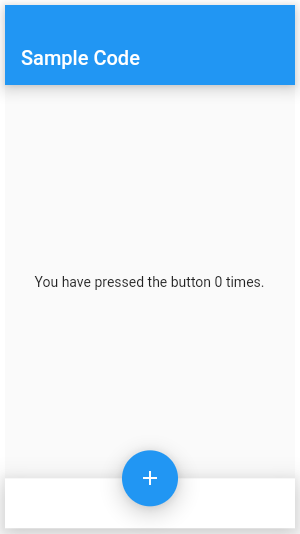
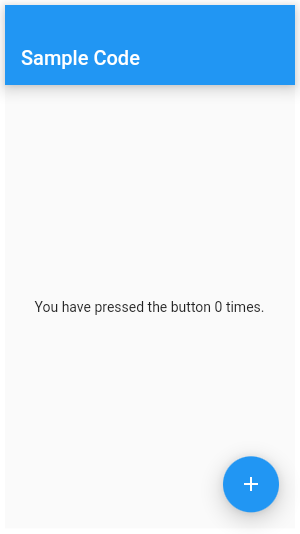
Add more Scaffold diagrams

diff --git a/packages/diagrams/lib/src/scaffold.dart b/packages/diagrams/lib/src/scaffold.dart
@@ -10,9 +10,15 @@ import 'package:flutter/material.dart';
 
 import 'diagram_step.dart';
 
+const String _scaffold = 'scaffold';
+const String _scaffoldBackgroundColor = 'scaffold_background_color';
+const String _scaffoldBottomAppBar = 'scaffold_bottom_app_bar';
+
 class ScaffoldDiagram extends StatefulWidget implements DiagramMetadata {
+  const ScaffoldDiagram({Key key, this.name}) : super(key: key);
+
   @override
-  final String name = 'scaffold';
+  final String name;
 
   @override
   State<StatefulWidget> createState() => ScaffoldDiagramState();
@@ -23,35 +29,68 @@ class ScaffoldDiagramState extends State<ScaffoldDiagram> {
 
   @override
   Widget build(BuildContext context) {
-
-    return ConstrainedBox(
-      key: UniqueKey(),
-      constraints: BoxConstraints.tight(const Size(300.0, 533.33)),
-      child: Container(
-        alignment: FractionalOffset.center,
-        padding: const EdgeInsets.all(5.0),
-        color: Colors.white,
-        child: Scaffold(
+    Widget returnWidget;
+    switch (widget.name) {
+      case _scaffold:
+        returnWidget = Scaffold(
+          appBar: AppBar(
+            title: const Text('Sample Code'),
+          ),
+          body: Center(
+            child: Text('You have pressed the button $_count times.')
+          ),
+          floatingActionButton: FloatingActionButton(
+            onPressed: () => setState(() => _count++),
+            tooltip: 'Increment Counter',
+            child: const Icon(Icons.add),
+          ),
+        );
+        break;
+      case _scaffoldBackgroundColor:
+        returnWidget = Scaffold(
+          appBar: AppBar(
+            title: const Text('Sample Code'),
+          ),
+          body: Center(
+            child: Text('You have pressed the button $_count times.')
+          ),
+          backgroundColor: Colors.blueGrey.shade200,
+          floatingActionButton: FloatingActionButton(
+            onPressed: () => setState(() => _count++),
+            tooltip: 'Increment Counter',
+            child: const Icon(Icons.add),
+          ),
+        );
+        break;
+      case _scaffoldBottomAppBar:
+        returnWidget = Scaffold(
           appBar: AppBar(
             title: const Text('Sample Code'),
           ),
           body: Center(
             child: Text('You have pressed the button $_count times.'),
           ),
+          extendBody: true,
           bottomNavigationBar: BottomAppBar(
-            child: Container(
-              height: 50.0,
-            ),
+            shape: const CircularNotchedRectangle(),
+            child: Container(height: 50.0),
           ),
           floatingActionButton: FloatingActionButton(
-            onPressed: () => setState(() {
-              _count++;
-            }),
+            onPressed: () => setState(() => _count++),
             tooltip: 'Increment Counter',
             child: const Icon(Icons.add),
           ),
           floatingActionButtonLocation: FloatingActionButtonLocation.centerDocked,
-        ),
+        );
+        break;
+    }
+    return ConstrainedBox(
+      key: UniqueKey(),
+      constraints: BoxConstraints.tight(const Size(300.0, 533.33)),
+      child: Container(
+        padding: const EdgeInsets.all(5.0),
+        color: Colors.white,
+        child: returnWidget,
       ),
     );
   }
@@ -65,7 +104,9 @@ class ScaffoldDiagramStep extends DiagramStep<ScaffoldDiagram> {
 
   @override
   Future<List<ScaffoldDiagram>> get diagrams async => <ScaffoldDiagram>[
-        ScaffoldDiagram(),
+        const ScaffoldDiagram(name: _scaffold),
+        const ScaffoldDiagram(name: _scaffoldBottomAppBar),
+        const ScaffoldDiagram(name: _scaffoldBackgroundColor),
       ];
 
   @override

diff --git a/packages/diagrams/lib/src/text.dart b/packages/diagrams/lib/src/text.dart
@@ -129,8 +129,7 @@ class TextDiagramPainter extends CustomPainter {
     paint.strokeWidth = 3.5;
     const double top = 0;
     final double bottom = textPainter.height;
-    final double baseline =
-        textPainter.computeDistanceToActualBaseline(TextBaseline.alphabetic);
+    final double baseline = textPainter.computeDistanceToActualBaseline(TextBaseline.alphabetic);
 
     final double ratio = 100.0 / textPainter.height;
     final double emTop = baseline - (baseline - top) * ratio;
